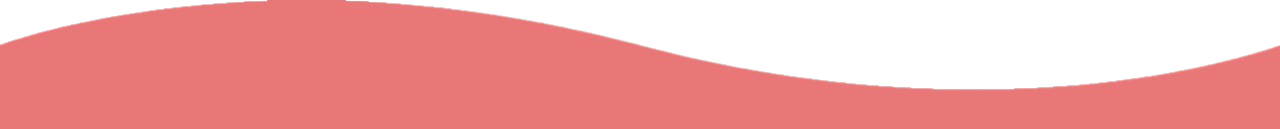
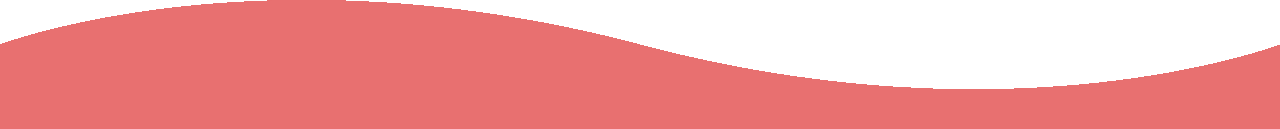
completed Footer

diff --git a/client/src/components/Home/Body/Body.jsx b/client/src/components/Home/Body/Body.jsx
@@ -36,8 +36,8 @@ const Body = () => {
         }
     ]);
     return (
-        <div>
-            <div>
+        <div className="bg-black">
+            <div className="bg-black">
                 <video autoPlay loop muted className="w-full max-h-screen object-cover">
                     <source src={MVGRVideo} type="video/mp4"/>
                 </video>
@@ -69,7 +69,7 @@ const Body = () => {
                 <h1 className="text-6xl font-merriweather font-semibold leading-normal text-primary">FAQ's</h1> 
             </Fade>
             </div>                   
-            <div className={`${theme==="light" ? "bg-black" : "bg-white"} flex p-20 pt-8 items-center justify-center`}>
+            <div className={`${theme==="light" ? "bg-black" : "bg-white"} flex px-20 mb-32 py-8 items-center justify-center`}>
                 <Zoom>
                 <div className="list">
                 {
@@ -80,9 +80,9 @@ const Body = () => {
                 </div>                                    
                 </Zoom>
             </div> 
-            <div className="bg-black p-8 pt-20">
+            <div className="bg-cool-black p-8 pt-20 shadow-xl">
                 <Zoom>
-                    <h1 className="text-5xl text-center font-gelasio tracking-wider font-semibold leading-normal text-primary">What Users Are Saying !</h1>
+                    <h1 className="text-5xl text-center font-gelasio tracking-wider font-semibold leading-normal text-primary pb-10">What Users Are Saying !</h1>
                 </Zoom>
                 <ReviewCarousel />
             </div>
@@ -91,7 +91,7 @@ const Body = () => {
                 <FeedbackForm />
             </div>
 
-            <div className="bg-black">
+            <div className="bg-cool-black">
                 <Footer />
             </div>
 

diff --git a/client/src/index.css b/client/src/index.css
@@ -167,53 +167,53 @@ body::-webkit-scrollbar{
 /*Footer styles*/
 
 .bg-wave {
+    height: 100px;
     background-size: 1000px 1000px;
     background: url(./assets/images/Home/FooterBG.png);
-
 }
 
 .bg-wave1 {
-    animation: animate 30s linear infinite;
+    animation: animate 4s linear infinite;
     z-index: 1000;
     opacity: 1;
     animation-delay: 0s;
 }
 
 .bg-wave2 {
-    animation: animate2 20s linear infinite;
+    animation: animate2 4s linear infinite;
     z-index: 999;
     opacity: 0.5;
-    animation-delay: -5s;
+    /* animation-delay: -5s; */
 }
 
 .bg-wave3 {
-    animation: animate 30s linear infinite;
-    z-index: 998;
-    opacity: 0.6;
+    animation: animate2 3s linear infinite;
+    z-index: 1000;
+    opacity: 0.2;
     animation-delay: -2s;
 }
 
 .bg-wave4 {
-    animation: animate2 20s linear infinite;
-    z-index: 997;
+    animation: animate2 3s linear infinite;
+    z-index: 999;
     opacity: 0.7;
-    animation-delay: -5s;
+    /* animation-delay: -5s; */
 }
 
 @keyframes animate {
     0% {
-        background-position-x: 0;
+        background-position-x: 1000px;
     }
     100% {
-        background-position-x: 1000px;
+        background-position-x: 0px;
     }
 }
 
 @keyframes animate2 {
     0% {
-        background-position-x: 0;
+        background-position-x: 0px;
     }
     100% {
-        background-position-x: -1000px;
+        background-position-x: 1000px;
     }
 }

diff --git a/client/src/components/Home/Review Carousel/FeedBackForm.jsx b/client/src/components/Home/Review Carousel/FeedBackForm.jsx
@@ -51,7 +51,7 @@ function FeedbackForm() {
 
     return (
         <Zoom>
-        <div className={`${clicked ? "show" : "hidden"} mx-auto bg-black/90 p-8 rounded-md duration-500 absolute left-5 -bottom-5`}>
+        <div className={`${clicked ? "show" : "hidden"} mx-auto bg-black/95 p-8 rounded-md duration-500 absolute left-5 -bottom-5`}>
         <button onClick={()=>setClicked(!clicked)}><i className="fi fi-bs-cross-small text-lg text-white absolute top-3.5 right-4"></i></button>
             <h4 className="font-medium text-center text-xl text-primary">Feedback Form</h4>
             <form onSubmit={handleSubmit} className="space-y-4 mt-5">

diff --git a/client/src/components/Home/Footer/Footer.jsx b/client/src/components/Home/Footer/Footer.jsx
@@ -4,7 +4,7 @@ import FooterData from './FooterData';
 const Footer = () => {
     return (
         <>
-        <div className="relative w-full h-32 overflow-hidden">
+        <div className="relative w-full h-24 overflow-hidden">
             <div className="absolute bottom-0 left-0 w-full h-24 bg-wave bg-wave1"></div>
             <div className="absolute bottom-0 left-0 w-full h-24 bg-wave bg-wave2"></div>
             <div className="absolute bottom-0 left-0 w-full h-24 bg-wave bg-wave3"></div>

diff --git a/client/tailwind.config.js b/client/tailwind.config.js
@@ -40,6 +40,7 @@ module.exports = {
     createThemes({
       light:{
         'cool-white':'#f5f5f5',
+        'cool-black':'#1C1C1C',
         'white': '#FFFFFF',
         'black': '#242424',
         'grey': '#F3F3F3',
@@ -55,6 +56,7 @@ module.exports = {
       },
       dark:{
         'cool-white':'#1C1C1C',
+        'cool-black':'#1C1C1C',
         'white': '#242424',
         'black': '#F3F3F3',
         'grey': '#2A2A2A',

diff --git a/client/src/components/Home/Navbar/Navbar.jsx b/client/src/components/Home/Navbar/Navbar.jsx
@@ -44,7 +44,7 @@ const Navbar = ({home=1,activeLink="Home"}) => {
     {name:"Podcasts",link:"/"},
     {name:"Blogs",link:"/blogs"},
     {name:"Contact",link:"/contact"},
-    {name:"Subscribe",link:"/"},
+    {name:"Subscribe",link:""},
   ];
   const handleLinkClick = ({link}) =>{
     if(!access_token) {

diff --git a/client/src/components/Home/Footer/FooterData.jsx b/client/src/components/Home/Footer/FooterData.jsx
@@ -8,7 +8,7 @@ let Platforms = [
 ]
 const FooterData = () => {
   return (
-    <footer className="py-4 relative overflow-hidden bg-primary/95">
+    <footer className="py-4 relative overflow-hidden bg-primary">
 
     <div className="center gap-10">
         {/* Subscribe */}
